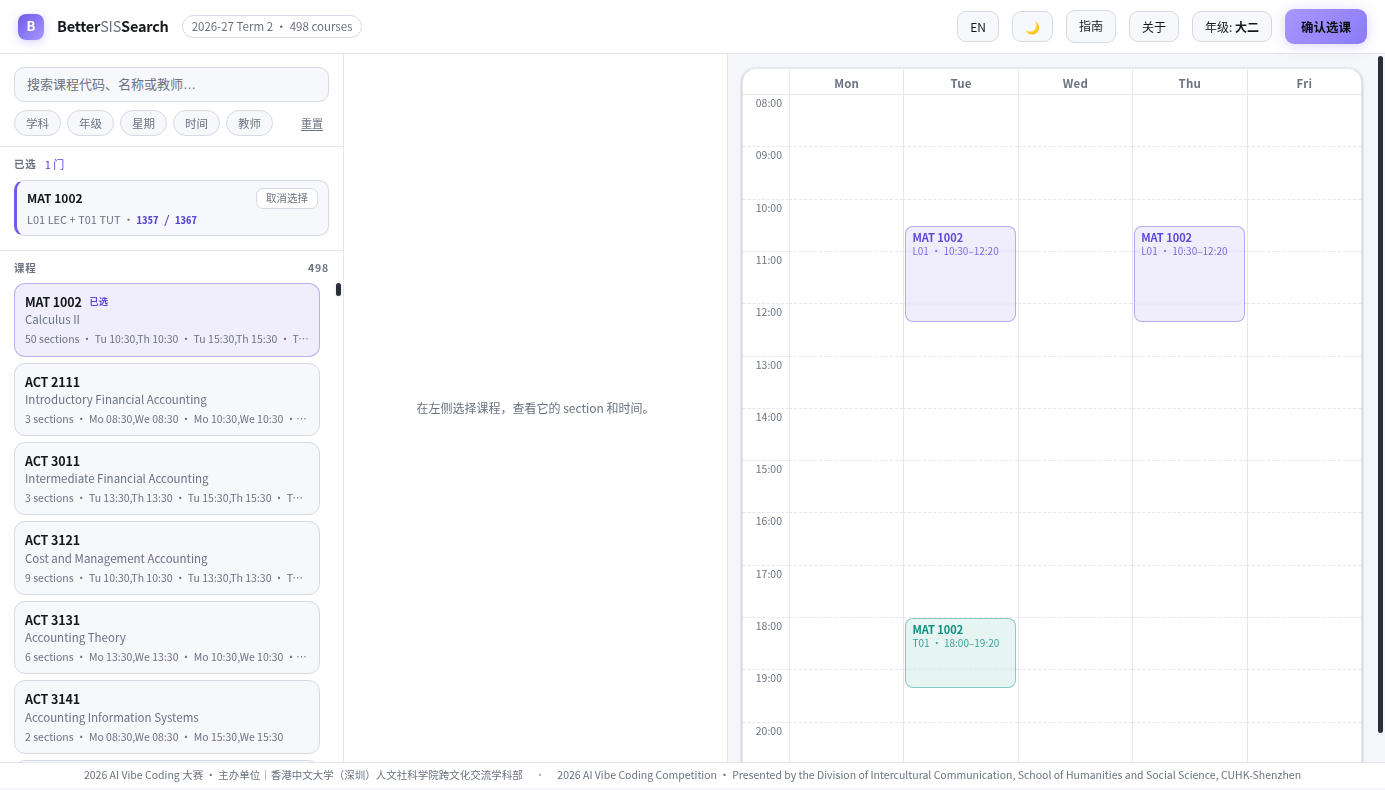
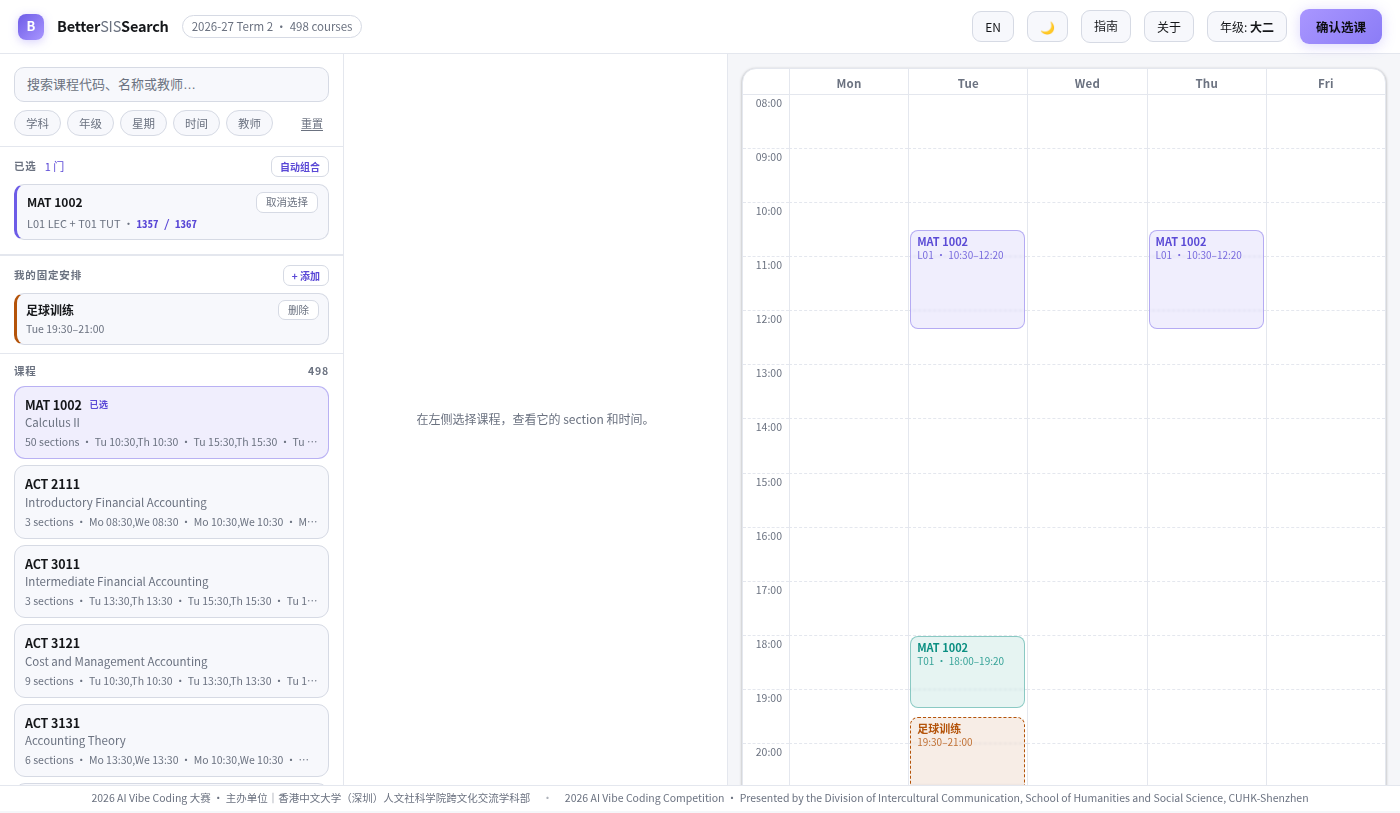
Update site from working copy

diff --git a/index.html b/index.html
@@ -140,6 +140,22 @@ main{padding:14px;overflow:auto;background:var(--bg)}
 .pcard .meta b{color:var(--accent-2);font-family:ui-monospace,SFMono-Regular,Menlo,monospace}
 .pcard.empty{color:var(--muted);border-style:dashed;border-left-color:var(--line-2);text-align:center;font-size:11.5px;padding:13px;cursor:default;background:transparent}
 
+/* ---------- fixed blocks ---------- */
+.selectedHead .mini{margin-left:auto;border:1px solid var(--line-2);background:var(--surface);color:var(--accent-2);
+  border-radius:7px;padding:2px 8px;font-size:10px;font-weight:700;cursor:pointer}
+.selectedHead .mini:hover{border-color:var(--accent-line)}
+.selectedHead .mini:disabled{color:var(--muted);cursor:default;opacity:.55}
+#blocksList{overflow:auto;max-height:20vh;padding:2px 14px 8px;border-bottom:1px solid var(--line);
+  display:flex;flex-direction:column;gap:5px}
+.bcard{border:1px solid var(--line-2);border-left:3px solid var(--caramel);border-radius:10px;
+  padding:6px 9px;background:var(--surface-2)}
+.bcard .r1{display:flex;align-items:center;gap:6px}
+.bcard .code{font-weight:700;font-size:12px;flex:1;color:var(--ink);overflow:hidden;text-overflow:ellipsis;white-space:nowrap}
+.bcard .remove{border:1px solid var(--line-2);background:var(--surface);color:var(--muted);border-radius:7px;
+  padding:2px 9px;font-size:10.5px;cursor:pointer;line-height:1.4}
+.bcard .remove:hover{border-color:var(--danger);color:var(--danger)}
+.bcard .meta{font-size:10.5px;color:var(--muted);margin-top:1px;white-space:nowrap;overflow:hidden;text-overflow:ellipsis}
+.block.type-FIX{border:1.5px dashed var(--caramel);background:rgba(180,83,9,.1);color:var(--caramel);z-index:5}
 /* ---------- course list ---------- */
 .listHead{display:flex;justify-content:space-between;padding:9px 14px 5px;font-size:10.5px;font-weight:700;
   text-transform:uppercase;letter-spacing:.08em;color:var(--muted)}
@@ -209,6 +225,18 @@ main{padding:14px;overflow:auto;background:var(--bg)}
   line-height:1.15;padding:0 3px;border-radius:5px;background:rgba(240,116,116,.22);color:var(--danger)}
 
 /* ---------- modals ---------- */
+.formrow{display:flex;align-items:center;gap:10px;margin:0 0 10px}
+.formrow label{width:72px;font-size:11.5px;color:var(--muted);flex:none}
+.formrow input,.formrow select{flex:1;padding:7px 9px;border:1px solid var(--line-2);border-radius:8px;
+  background:var(--surface-2);color:var(--ink);font-size:12.5px;font-family:inherit}
+.checkrow{display:flex;align-items:center;gap:8px;font-size:12.5px;color:var(--ink);margin:2px 0 12px;cursor:pointer}
+.checkrow input{accent-color:var(--accent);width:14px;height:14px}
+#toast{position:fixed;left:50%;bottom:44px;transform:translateX(-50%);background:var(--ink);color:var(--bg);
+  padding:9px 14px;border-radius:10px;font-size:12px;display:none;gap:12px;align-items:center;z-index:80;
+  box-shadow:0 6px 20px rgba(0,0,0,.25);max-width:92vw}
+#toast.show{display:flex}
+#toast button{border:1px solid currentColor;background:transparent;color:inherit;border-radius:7px;
+  padding:2px 8px;font-size:11px;cursor:pointer;flex:none}
 .modal{position:fixed;inset:0;background:rgba(6,7,10,.62);backdrop-filter:blur(3px);display:none;
   align-items:center;justify-content:center;z-index:50;padding:20px}
 .modal.show{display:flex}
@@ -318,8 +346,11 @@ body.guide-open header a.ghost{opacity:1;pointer-events:auto}
     <div class="panel" id="panel-time"></div>
     <div class="panel" id="panel-instructor"></div>
 
-    <div class="selectedHead"><span class="t" data-i18n="pinned">Pinned</span><span class="n" id="selCount">0</span></div>
+    <div class="selectedHead"><span class="t" data-i18n="pinned">Pinned</span><span class="n" id="selCount">0</span><button class="mini" id="autoBtn" data-i18n="autoCombine">Auto-combine</button></div>
     <div id="pinnedList"></div>
+
+    <div class="selectedHead"><span class="t" data-i18n="myBlocks">My fixed blocks</span><button class="mini" id="addBlockBtn" data-i18n="addBlock">+ Add</button></div>
+    <div id="blocksList"></div>
 
     <div class="listHead"><span data-i18n="courses">Courses</span><span id="listCount"></span></div>
     <div id="results"></div>
@@ -404,6 +435,35 @@ body.guide-open header a.ghost{opacity:1;pointer-events:auto}
   </div>
 </div>
 
+<!-- fixed block modal -->
+<div class="modal" id="blockModal">
+  <div class="sheet">
+    <h2 data-i18n="blockT">Add a fixed block</h2>
+    <p data-i18n="blockP">A standing commitment (training, work, commute). It takes up time and is counted in conflicts and auto-combine.</p>
+    <div class="formrow"><label data-i18n="blockName">Name</label><input id="bTitle" maxlength="40" placeholder="Football training" data-i18n-ph="blockPh"></div>
+    <div class="formrow"><label data-i18n="day">Day</label><select id="bDay">
+      <option value="Mo">Mon</option><option value="Tu" selected>Tue</option><option value="We">Wed</option><option value="Th">Thu</option><option value="Fr">Fri</option>
+    </select></div>
+    <div class="formrow"><label data-i18n="from">From</label><input type="time" id="bStart" value="19:00" step="300"></div>
+    <div class="formrow"><label data-i18n="to">To</label><input type="time" id="bEnd" value="21:00" step="300"></div>
+    <p class="fine" id="blockErr"></p>
+    <div class="actions"><button class="ghost" id="blockCancel" data-i18n="back">Back</button><button class="primary" id="blockSave" data-i18n="save">Save</button></div>
+  </div>
+</div>
+
+<!-- auto-combine modal -->
+<div class="modal" id="autoModal">
+  <div class="sheet">
+    <h2 data-i18n="autoT">Find a conflict-free combination</h2>
+    <p data-i18n="autoP">Tries every section of the selected courses: one section per type, and any overlap with your other courses or fixed blocks is rejected.</p>
+    <label class="checkrow"><input type="checkbox" id="avoidEarly"> <span data-i18n="avoidEarly">Avoid classes starting before 09:00</span></label>
+    <p class="fine" id="autoStatus"></p>
+    <div class="actions"><button class="ghost" id="autoCancel" data-i18n="back">Back</button><button class="primary" id="autoRun" data-i18n="autoRun">Find combination</button></div>
+  </div>
+</div>
+
+<div id="toast"></div>
+
 <script>
 const DAYS = ['Mo','Tu','We','Th','Fr'];
 const I18N={
@@ -424,7 +484,11 @@ const I18N={
   y1:'Year 1',y2:'Year 2',y3:'Year 3',y4:'Year 4',postgrad:'Postgraduate',
   undergraduate:'Undergraduate',masters:"Master's / PhD",
   firstTime:'First time here?',firstHint:'Open the Guide in the top right. It shows how to search courses, pick sections, and copy your class numbers into SIS.',
-  gotIt:'Got it',aboutT:'About BetterSISSearch',aboutP:'A read-only course planner for CUHK-SZ students. Search courses, build a timetable, check conflicts, and copy the 4-digit class numbers.',conflict:'CONFLICT',selected:'SELECTED',select:'Select',noFixed:'No fixed meeting'},
+  gotIt:'Got it',aboutT:'About BetterSISSearch',aboutP:'A read-only course planner for CUHK-SZ students. Search courses, build a timetable, check conflicts, auto-combine sections, keep fixed blocks, and copy the 4-digit class numbers.',conflict:'CONFLICT',selected:'SELECTED',select:'Select',noFixed:'No fixed meeting',
+  autoCombine:'Auto-combine',myBlocks:'My fixed blocks',addBlock:'+ Add',noBlocks:'No fixed blocks yet',
+  blockT:'Add a fixed block',blockP:'A standing commitment (training, work, commute). It takes up time and is counted in conflicts and auto-combine.',blockName:'Name',blockPh:'Football training, part-time job…',save:'Save',blockRemove:'Remove',blockTimeErr:'End time must be after start time.',blockDefaultName:'Fixed block',blockLabel:'Fixed',
+  autoT:'Find a conflict-free combination',autoP:'Tries every section of the selected courses: one section per type, and any overlap with your other courses or fixed blocks is rejected.',avoidEarly:'Avoid classes starting before 09:00',autoRun:'Find combination',
+  autoNone:'No conflict-free combination found. Try removing a fixed block or turning off the morning rule.',autoNoOption:'{course} has no section that fits the current rules.',autoApplied:'Combination applied · {n} sections',autoUndo:'Undo'},
  zh:{remove:'取消选择',unitCourse:'门',pinnedTag:'已选',year:'年级',guide:'指南',about:'关于',confirm:'确认选课',theme:'切换明暗',lang:'EN',
   searchPh:'搜索课程代码、名称或教师…',
   subject:'学科',level:'年级',day:'星期',time:'时间',instructor:'教师',reset:'重置',
@@ -442,7 +506,11 @@ const I18N={
   y1:'大一',y2:'大二',y3:'大三',y4:'大四',postgrad:'研究生',
   undergraduate:'本科',masters:'硕士 / 博士',
   firstTime:'第一次来？',firstHint:'先看右上角的指南。里面讲了怎么搜课、选 section、把 class number 复制到 SIS。',
-  gotIt:'我知道了',aboutT:'关于 BetterSISSearch',aboutP:'面向 CUHK-SZ 学生的只读选课规划工具。搜课、排表、查冲突，复制 4 位 class number。',conflict:'冲突',selected:'已选',select:'选',noFixed:'无固定时间'}
+  gotIt:'我知道了',aboutT:'关于 BetterSISSearch',aboutP:'面向 CUHK-SZ 学生的只读选课规划工具。搜课、排表、查冲突、自动组合 section、固定个人安排，复制 4 位 class number。',conflict:'冲突',selected:'已选',select:'选',noFixed:'无固定时间',
+  autoCombine:'自动组合',myBlocks:'我的固定安排',addBlock:'+ 添加',noBlocks:'还没有固定安排',
+  blockT:'添加固定安排',blockP:'固定占用一段时间（训练、兼职、通勤等），参与冲突判断和自动组合。',blockName:'名称',blockPh:'周二晚足球训练、兼职…',save:'保存',blockRemove:'删除',blockTimeErr:'结束时间要晚于开始时间。',blockDefaultName:'固定安排',blockLabel:'固定',
+  autoT:'自动找不冲突的组合',autoP:'遍历已选课程的每一个 section，每种类型选一个；与其它课程或固定安排重叠的组合会被排除。',avoidEarly:'不要早八（09:00 前开始）',autoRun:'开始查找',
+  autoNone:'没有找到不冲突的组合。试试删除一个固定安排，或关掉「不要早八」。',autoNoOption:'{course} 没有符合当前规则的 section。',autoApplied:'已应用组合 · {n} 个 section',autoUndo:'撤销'}
 };
 let lang=localStorage.getItem('bss.lang')||'en';
 function t(k){ const d=I18N[lang]||I18N.en; return d[k]||I18N.en[k]||k; }
@@ -459,7 +527,7 @@ function applyI18n(){
 
 const DAY_LABEL = {Mo:'Mon',Tu:'Tue',We:'Wed',Th:'Thu',Fr:'Fri',Sa:'Sat',Su:'Sun'};
 const START_H = 8, END_H = 21;
-const LS = {year:'bss.year', sel:'bss.selected.v3'};
+const LS = {year:'bss.year', sel:'bss.selected.v3', blocks:'bss.blocks.v1'};
 
 let DATA = null;
 let year = localStorage.getItem(LS.year) || '';
@@ -469,6 +537,8 @@ let filters = {subject:new Set(), level:new Set(), day:new Set(), time:new Set()
 let timeRange = {start:'', end:''};
 let openPanel = null;
 let confirmed = false;
+let blocks=[];                 // personal fixed commitments: {id,title,day,start,end}
+try{ blocks=(JSON.parse(localStorage.getItem(LS.blocks))||[]).filter(b=>b&&b.day&&b.start&&b.end); }catch{ blocks=[]; }
 
 const $ = s => document.querySelector(s);
 const toMin = t => { const [h,m]=t.split(':').map(Number); return h*60+m; };
@@ -483,6 +553,81 @@ function isSelected(code){ return selected.some(p=>p.code===code); }
 function selOf(code){ return selected.find(p=>p.code===code); }
 function levelOf(c){ const m=c.catalog.match(/^\d/); return m ? c.catalog[0]+'000' : 'Other'; }
 function allSelectedMeetings(){ return selected.flatMap(meetingsOf); }
+/* ---------------- fixed blocks + auto-combine ---------------- */
+const EARLY_MIN = 9*60;
+function blockMeetings(){ return blocks.map(b=>({day:b.day,start:b.start,end:b.end,raw:`${DAY_LABEL[b.day]||b.day} ${b.start}–${b.end}`})); }
+function saveBlocks(){ localStorage.setItem(LS.blocks, JSON.stringify(blocks)); }
+const esc = s => String(s).replace(/[&<>"']/g, c => ({'&':'&amp;','<':'&lt;','>':'&gt;','"':'&quot;',"'":'&#39;'}[c]));
+
+function courseAssignments(c, avoidEarly){
+  // one section per type; sections with a meeting starting before 09:00 are dropped when asked
+  const types=[...new Set(c.sections.map(s=>s.type))];
+  let combos=[{}];
+  for(const ty of types){
+    let secs=c.sections.filter(s=>s.type===ty);
+    if(avoidEarly) secs=secs.filter(s=>s.meetings.every(m=>toMin(m.start)>=EARLY_MIN));
+    if(!secs.length) return [];
+    const next=[];
+    for(const base of combos) for(const s of secs) next.push(Object.assign({}, base, {[ty]:s.class_number}));
+    combos=next;
+  }
+  return combos.map(byType=>({
+    byType,
+    meetings:Object.values(byType).flatMap(cn=>section(c,cn).meetings)
+  }));
+}
+
+function solveCombination(avoidEarly){
+  const list=selected.map(p=>course(p.code)).filter(Boolean);
+  if(!list.length) return {error:'empty'};
+  const opts=list.map(c=>({c, list:courseAssignments(c, avoidEarly)}));
+  const bad=opts.find(o=>!o.list.length);
+  if(bad) return {error:'noOption', course:bad.c.code};
+  opts.sort((a,b)=>a.list.length-b.list.length);
+  let nodes=0; const LIMIT=400000;
+  const chosen=[];
+  function dfs(i, occ){
+    if(i===opts.length) return chosen.slice();
+    for(const o of opts[i].list){
+      if(++nodes>LIMIT) return null;
+      if(o.meetings.some(m=>occ.some(x=>overlap(m,x)))) continue;
+      chosen.push({code:opts[i].c.code, byType:o.byType});
+      const r=dfs(i+1, occ.concat(o.meetings));
+      if(r) return r;
+      chosen.pop();
+    }
+    return null;
+  }
+  const result=dfs(0, blockMeetings());
+  return result ? {result, nodes} : {error:'none', nodes};
+}
+
+function applyCombination(result){
+  const prev=JSON.parse(JSON.stringify(selected));
+  for(const ch of result){
+    const p=selOf(ch.code);
+    if(p) p.byType=Object.assign({}, ch.byType);
+    else selected.push({code:ch.code, byType:Object.assign({}, ch.byType)});
+  }
+  saveSel(); renderAll();
+  const n=result.reduce((sum,r)=>sum+Object.keys(r.byType).length, 0);
+  toast(t('autoApplied').replace('{n}', String(n)), ()=>{ selected=prev; saveSel(); renderAll(); });
+}
+
+let toastTimer=null;
+function toast(msg, undoFn){
+  const box=$('#toast'); if(!box) return;
+  box.innerHTML=''; box.appendChild(document.createTextNode(msg));
+  if(undoFn){
+    const b=document.createElement('button');
+    b.textContent=t('autoUndo');
+    b.onclick=()=>{ undoFn(); box.classList.remove('show'); };
+    box.appendChild(b);
+  }
+  box.classList.add('show');
+  clearTimeout(toastTimer); toastTimer=setTimeout(()=>box.classList.remove('show'), 6000);
+}
+
 
 /* ---------------- filters ---------------- */
 function courseMatchesFilters(c){
@@ -623,6 +768,23 @@ function renderPinned(){
   }
 }
 
+/* ---------------- left: fixed blocks ---------------- */
+function renderBlocks(){
+  const box=$('#blocksList'); if(!box) return;
+  if(!blocks.length){ box.innerHTML='<div class="empty" style="padding:10px 6px;font-size:11px">'+t('noBlocks')+'</div>'; return; }
+  box.innerHTML='';
+  for(const b of blocks){
+    const d=document.createElement('div'); d.className='bcard';
+    d.innerHTML=`<div class="r1"><span class="code">${esc(b.title)}</span><button class="remove">${t('blockRemove')}</button></div>
+      <div class="meta">${DAY_LABEL[b.day]||b.day} ${b.start}–${b.end}</div>`;
+    d.querySelector('.remove').onclick=e=>{
+      e.stopPropagation();
+      blocks=blocks.filter(x=>x.id!==b.id); saveBlocks(); renderAll();
+    };
+    box.appendChild(d);
+  }
+}
+
 /* ---------------- left: list ---------------- */
 function renderList(){
   const q=$('#q').value.trim();
@@ -652,7 +814,7 @@ function renderDetail(){
   const c=currentCode?course(currentCode):null;
   if(!c){ box.innerHTML='<div class="detailEmpty">'+t('pickCourse')+'</div>'; return; }
   const byType=pickedOf(c.code);
-  const otherM=selected.filter(p=>p.code!==c.code).flatMap(meetingsOf);
+  const otherM=selected.filter(p=>p.code!==c.code).flatMap(meetingsOf).concat(blockMeetings());
   const types=[...new Set(c.sections.map(s=>s.type))];
   const groups=types.map(ty=>{
     const rows=c.sections.filter(s=>s.type===ty).map(s=>{
@@ -697,6 +859,10 @@ function renderGrid(){
     for(const ps of pickedSections(p.code))
       for(const m of ps.section.meetings) items.push({p,c,s:ps.section,m});
   }
+  for(const b of blocks)
+    items.push({isBlock:true, p:null, c:{code:t('blockLabel'), title:b.title},
+      s:{section:'', type:'FIX', class_number:''},
+      m:{day:b.day, start:b.start, end:b.end, raw:`${DAY_LABEL[b.day]||b.day} ${b.start}–${b.end}`}});
   function place(it,ghost){
     const di=DAYS.indexOf(it.m.day); if(di<0) return;
     const s0=toMin(it.m.start), e0=toMin(it.m.end);
@@ -714,10 +880,17 @@ function renderGrid(){
     b.style.marginLeft='2px';
     if(ghost) b.style.zIndex='1';
     if(conflict) b.dataset.cf='×'+clash;
-    if(!covered) b.innerHTML=`<b>${it.c.code}</b><div class="meta">${it.s.section} · ${it.m.start}–${it.m.end}</div>`;
-    b.title=(ghost?'click to pin: ':'')+`${it.c.code} ${it.c.title}\n${it.s.section} ${it.s.type} (${it.s.class_number})\n${it.m.raw}`+(conflict?`\n\n${clash} ${t('unitCourse')} ${t('conflict')}`:'');
+    if(!covered){
+      b.innerHTML = it.isBlock
+        ? `<b>${esc(it.c.title)}</b><div class="meta">${it.m.start}–${it.m.end}</div>`
+        : `<b>${it.c.code}</b><div class="meta">${it.s.section} · ${it.m.start}–${it.m.end}</div>`;
+    }
+    b.title = it.isBlock
+      ? `${it.c.title}\n${it.m.raw}`
+      : (ghost?'click to pin: ':'')+`${it.c.code} ${it.c.title}\n${it.s.section} ${it.s.type} (${it.s.class_number})\n${it.m.raw}`+(conflict?`\n\n${clash} ${t('unitCourse')} ${t('conflict')}`:'');
     b.onclick=e=>{
       e.stopPropagation();
+      if(it.isBlock) return;
       if(ghost){ pickSection(it.c.code, it.s.class_number); return; }
       const group=items.filter(o=>overlap(it.m,o.m));
       if(group.length<=1){ currentCode=it.c.code; renderAll(); return; }
@@ -748,7 +921,7 @@ document.querySelector('aside.mid').addEventListener('click', e=>{
   if(e.target.closest('.secrow')) return;
   if(currentCode){ currentCode=null; renderAll(); }
 });
-function renderAll(){renderPinned();renderList();renderDetail();renderGrid();$('#confirmBtn').disabled=!selected.length;}
+function renderAll(){renderPinned();renderBlocks();renderList();renderDetail();renderGrid();$('#confirmBtn').disabled=!selected.length;$('#autoBtn').disabled=!selected.length;}
 
 /* ---------------- confirm ---------------- */
 let codeRows=[];
@@ -796,6 +969,36 @@ $('#copyCodes').onclick=async()=>{
   const text=codeRows.map(r=>r.cn).join('\n');
   await copyText(text);
   const a=$('#copyCodes'); a.textContent=t('copied'); setTimeout(()=>a.textContent=t('copyAllNote'),1400);
+};
+
+/* ---------------- fixed blocks ---------------- */
+$('#addBlockBtn').onclick=()=>{
+  $('#bTitle').value=''; $('#bDay').value='Tu'; $('#bStart').value='19:00'; $('#bEnd').value='21:00';
+  $('#blockErr').textContent=''; $('#blockModal').classList.add('show');
+};
+$('#blockCancel').onclick=()=>$('#blockModal').classList.remove('show');
+$('#blockSave').onclick=()=>{
+  const title=$('#bTitle').value.trim()||t('blockDefaultName');
+  const day=$('#bDay').value, start=$('#bStart').value, end=$('#bEnd').value;
+  if(!start||!end||toMin(end)<=toMin(start)){ $('#blockErr').textContent=t('blockTimeErr'); return; }
+  blocks.push({id:'b'+Date.now()+Math.floor(Math.random()*1000), title, day, start, end});
+  saveBlocks(); $('#blockModal').classList.remove('show'); renderAll();
+};
+
+/* ---------------- auto-combine ---------------- */
+$('#autoBtn').onclick=()=>{
+  $('#avoidEarly').checked=false; $('#autoStatus').textContent='';
+  $('#autoModal').classList.add('show');
+};
+$('#autoCancel').onclick=()=>$('#autoModal').classList.remove('show');
+$('#autoRun').onclick=()=>{
+  const avoid=$('#avoidEarly').checked;
+  const r=solveCombination(avoid);
+  if(r.error==='none'){ $('#autoStatus').textContent=t('autoNone'); return; }
+  if(r.error==='noOption'){ $('#autoStatus').textContent=t('autoNoOption').replace('{course}', r.course); return; }
+  if(r.error==='empty'){ $('#autoModal').classList.remove('show'); return; }
+  $('#autoModal').classList.remove('show');
+  applyCombination(r.result);
 };
 
 /* ---------------- year ---------------- */

diff --git a/tutorial.html b/tutorial.html
@@ -90,7 +90,10 @@ const I18N={
   s3p2:'In SIS, open Enrollment, then Enrollment Shopping Cart. Type each number in Enter Class Nbr.',
   cap3:'One number per section.',
   capSis:'SIS enrollment cart.',
-  q0:'What are the course code and the class number?',a0:'The <b>course code</b> is three letters plus four digits, like <code>MAT 3004</code>. It is the catalog identifier. The <b>class number</b> is four digits, like <code>1692</code>. It is what you actually enroll with in SIS. You plan with the course code and end up with class numbers. In SIS, a class number locates the course directly, without searching again.',q1:'Can it enroll for me?',a1:'No. The tool is read-only. It never adds to a cart, submits, or changes anything. It gives you the 4-digit class numbers. You paste them into SIS yourself.',q2:'Is the data trustworthy?',a2:'It is a read-only snapshot of SIS Class Search for 2026-27 Term 2: 498 courses and 1574 sections. Seats and courses change during enrollment, so SIS is authoritative. The scrape uses a campus account session and only reads. AIE1902 / AIE1904 times and instructors come from the SAI college course pages (2026-11-27/28).',q3:'Why no capacity info?',a3:'Capacity changes every second during enrollment. This site is a static deployment, so stored capacity would mislead. No capacity, only time, conflicts, and class numbers.',q4:'Why are some section relationships missing?',a4:'Class Search returns sections without binding relationships. You get numbers, times, rooms, and instructors. You cannot tell which TUT belongs to which LEC. Relationship data is being added. Workaround: locate the course in SIS with its class number to see what it belongs to.',q5:"Why can't I find some courses?",a5:'62 subjects have no courses this term. 24 of them had courses in Term 1, and 38 had none in either term, mostly exchange programs and language codes.',q6:'Why does my combination fail in SIS?',a6:'Prerequisites, year restrictions, time conflicts, full sections, or consent requirements. The tool does not check these. SIS is authoritative.',q7:'Is my selection uploaded?',a7:"No. It stays in your browser's localStorage. No account, no server storage.",q8:'Do conflicts block me?',a8:'No. Red is a warning. Conflicts are allowed. Some people hold a spot and adjust later.',q9:'Which terms are supported?',a9:'Only 2026-27 Term 2.',q10:'Why must the time range fully contain the class?',a10:'You are asking which classes fit in a window when you are free, so the whole class time must fall inside it.',end:'Course data is a static snapshot. Seats and changes are decided by SIS. Your selections stay in this browser.',fbLabel:'Feedback',fbText:'Wrong time, a missing course, or something broken? Email me.'},
+  step4:'Auto-combine and fixed blocks',
+  s4p1:'No clash-free way to fit everything? Click Auto-combine. It tries the sections of the selected courses and returns a working set; turn on “no morning” to exclude classes before 09:00. The result lands on the timetable and can be undone.',
+  s4p2:'Add standing commitments (football training, a part-time job) under My fixed blocks. They take up time on the timetable and are counted in conflicts and Auto-combine.',
+  q0:'What are the course code and the class number?',a0:'The <b>course code</b> is three letters plus four digits, like <code>MAT 3004</code>. It is the catalog identifier. The <b>class number</b> is four digits, like <code>1692</code>. It is what you actually enroll with in SIS. You plan with the course code and end up with class numbers. In SIS, a class number locates the course directly, without searching again.',q1:'Can it enroll for me?',a1:'No. The tool is read-only. It never adds to a cart, submits, or changes anything. It gives you the 4-digit class numbers. You paste them into SIS yourself.',q2:'Is the data trustworthy?',a2:'It is a read-only snapshot of SIS Class Search for 2026-27 Term 2: 498 courses and 1574 sections. Seats and courses change during enrollment, so SIS is authoritative. The scrape uses a campus account session and only reads. AIE1902 / AIE1904 times and instructors come from the SAI college course pages (2026-11-27/28).',q3:'Why no capacity info?',a3:'Capacity changes every second during enrollment. This site is a static deployment, so stored capacity would mislead. No capacity, only time, conflicts, and class numbers.',q4:'Why are some section relationships missing?',a4:'Class Search returns sections without binding relationships. You get numbers, times, rooms, and instructors. You cannot tell which TUT belongs to which LEC. Relationship data is being added. Workaround: locate the course in SIS with its class number to see what it belongs to.',q5:"Why can't I find some courses?",a5:'62 subjects have no courses this term. 24 of them had courses in Term 1, and 38 had none in either term, mostly exchange programs and language codes.',q6:'Why does my combination fail in SIS?',a6:'Prerequisites, year restrictions, time conflicts, full sections, or consent requirements. The tool does not check these. SIS is authoritative.',q7:'Is my selection uploaded?',a7:"No. It stays in your browser's localStorage. No account, no server storage.",q8:'Do conflicts block me?',a8:'No. Red is a warning. Conflicts are allowed. Some people hold a spot and adjust later.',q9:'Which terms are supported?',a9:'Only 2026-27 Term 2.',q10:'Why must the time range fully contain the class?',a10:'You are asking which classes fit in a window when you are free, so the whole class time must fall inside it.',q11:'Does it know about my football training?',a11:'Add it under My fixed blocks. It is treated like a class in conflict checks and Auto-combine, and it never produces a class number.',end:'Course data is a static snapshot. Seats and changes are decided by SIS. Your selections stay in this browser.',fbLabel:'Feedback',fbText:'Wrong time, a missing course, or something broken? Email me.'},
  zh:{title:'使用指南 · BetterSISSearch',openApp:'打开应用',
   heroTitle:'选课前先把学期排好。',
   faqSub:'常见问题',heroP:'BetterSISSearch 是一个快速、可视化的 SIS 选课模拟器。搜索课程、搭好课表、检查时间冲突，然后把 4 位 class number 复制到 SIS。不用登录，不写入 SIS。',
@@ -108,7 +111,10 @@ const I18N={
   s3p2:'在 SIS 里打开 Enrollment，再进 Enrollment Shopping Cart，把数字填进 Enter Class Nbr。',
   cap3:'每个 section 一个数字。',
   capSis:'SIS 选课购物车。',
-  q0:'什么是课程编码和 class number？',a0:'<b>课程编码</b>是三字母学科加四位数字，比如 <code>MAT 3004</code>，是课程目录里的编号。<b>class number</b> 是四位数字，比如 <code>1692</code>，是你在 SIS 里实际操作的单位。排课时用课程编码找课，最后拿到的是 class number。在 SIS 里用 class number 可以直接定位课程，不用再 search。',q1:'能帮我选课吗？能替我完成 SIS 操作吗？',a1:'不能。这个工具是只读的，不加购物车、不提交、不改任何东西。它只负责把 4 位 class number 给你，复制到 SIS 里由你自己加。',q2:'数据可信吗？',a2:'数据来自 SIS Class Search 的只读抓取，是 2026-27 Term 2 的快照：498 门课、1574 个 section。选课季名额和课程都会变，最终以 SIS 为准。抓取用的是校园账号登录态，只读查询，不写任何东西。AIE1902 / AIE1904 两门学院探索课的时间与教师取自学院官网（2026-11-27/28）。',q3:'为什么不做容量信息？',a3:'容量是动态的，选课季每秒都在变。这是一个静态部署的站点，存下来的容量只会误导人。所以不做容量，只做时间、冲突、class number。',q4:'为什么有些 section 之间的关联关系查不到？',a4:'Class Search 返回的数据里，section 之间没有绑定关系，只有编号、时间、教室、老师。比如一门课的 LEC 和 TUT 该怎么配，数据里看不出来。课程之间的关联数据正在尝试拉取。临时办法：用 class number 在 SIS 里定位，可以看到它所属的课程和 section。',q5:'为什么有些课搜不到？',a5:'62 个科目本学期没开课。其中 24 个在 Term 1 有课，38 个两个学期都没有，多是交换项目和语言代码。',q6:'为什么我选的组合在 SIS 里加不进去？',a6:'可能有先修要求、年级限制、时间冲突、名额已满、需要许可。工具不校验这些，SIS 才是权威。',q7:'我的选课数据会上传吗？',a7:'不会。存在你自己浏览器的 localStorage 里，没有账号、没有服务器存储。',q8:'冲突会被拦下来吗？',a8:'不会。红色只是提示。允许冲突，有人会先占位再调整。',q9:'支持哪些学期？',a9:'目前只有 2026-27 Term 2。',q10:'为什么时间筛选要「完整包含」？',a10:'你实际想问的是「我 9 点到 12 点有空，哪些课能上」，所以课程时段要整段落在你选的窗口里。',end:'课程数据是静态快照，名额和变动以 SIS 为准。你的选课只存在这个浏览器里。',fbLabel:'反馈',fbText:'时间不对、课程缺失、或者哪里坏了，发邮件给我。'}
+  step4:'自动组合与固定安排',
+  s4p1:'怎么排都冲突？点「自动组合」：它会遍历已选课程的 section，给出一组可行安排；勾上「不要早八」会排除 09:00 前开始的课。结果直接落到课表，还可以撤销。',
+  s4p2:'固定安排（足球训练、兼职）在「我的固定安排」里添加，会占用课表时间，并参与冲突判断和自动组合。',
+  q0:'什么是课程编码和 class number？',a0:'<b>课程编码</b>是三字母学科加四位数字，比如 <code>MAT 3004</code>，是课程目录里的编号。<b>class number</b> 是四位数字，比如 <code>1692</code>，是你在 SIS 里实际操作的单位。排课时用课程编码找课，最后拿到的是 class number。在 SIS 里用 class number 可以直接定位课程，不用再 search。',q1:'能帮我选课吗？能替我完成 SIS 操作吗？',a1:'不能。这个工具是只读的，不加购物车、不提交、不改任何东西。它只负责把 4 位 class number 给你，复制到 SIS 里由你自己加。',q2:'数据可信吗？',a2:'数据来自 SIS Class Search 的只读抓取，是 2026-27 Term 2 的快照：498 门课、1574 个 section。选课季名额和课程都会变，最终以 SIS 为准。抓取用的是校园账号登录态，只读查询，不写任何东西。AIE1902 / AIE1904 两门学院探索课的时间与教师取自学院官网（2026-11-27/28）。',q3:'为什么不做容量信息？',a3:'容量是动态的，选课季每秒都在变。这是一个静态部署的站点，存下来的容量只会误导人。所以不做容量，只做时间、冲突、class number。',q4:'为什么有些 section 之间的关联关系查不到？',a4:'Class Search 返回的数据里，section 之间没有绑定关系，只有编号、时间、教室、老师。比如一门课的 LEC 和 TUT 该怎么配，数据里看不出来。课程之间的关联数据正在尝试拉取。临时办法：用 class number 在 SIS 里定位，可以看到它所属的课程和 section。',q5:'为什么有些课搜不到？',a5:'62 个科目本学期没开课。其中 24 个在 Term 1 有课，38 个两个学期都没有，多是交换项目和语言代码。',q6:'为什么我选的组合在 SIS 里加不进去？',a6:'可能有先修要求、年级限制、时间冲突、名额已满、需要许可。工具不校验这些，SIS 才是权威。',q7:'我的选课数据会上传吗？',a7:'不会。存在你自己浏览器的 localStorage 里，没有账号、没有服务器存储。',q8:'冲突会被拦下来吗？',a8:'不会。红色只是提示。允许冲突，有人会先占位再调整。',q9:'支持哪些学期？',a9:'目前只有 2026-27 Term 2。',q10:'为什么时间筛选要「完整包含」？',a10:'你实际想问的是「我 9 点到 12 点有空，哪些课能上」，所以课程时段要整段落在你选的窗口里。',q11:'它会考虑我的足球训练吗？',a11:'在「我的固定安排」里加一条即可。它和课程一样参与冲突判断与自动组合，但不会产生 class number。',end:'课程数据是静态快照，名额和变动以 SIS 为准。你的选课只存在这个浏览器里。',fbLabel:'反馈',fbText:'时间不对、课程缺失、或者哪里坏了，发邮件给我。'}
 };
 (function(){
   let lang='en';
@@ -185,6 +191,14 @@ const I18N={
     </div>
   </div>
 
+  <div class="step">
+    <div class="num">4</div>
+    <div>
+      <h2 data-i18n="step4">Auto-combine and fixed blocks</h2>
+      <p data-i18n="s4p1">No clash-free way to fit everything? Click Auto-combine. It tries the sections of the selected courses and returns a working set; turn on “no morning” to exclude classes before 09:00. The result lands on the timetable and can be undone.</p>
+      <p data-i18n="s4p2">Add standing commitments (football training, a part-time job) under My fixed blocks. They take up time on the timetable and are counted in conflicts and Auto-combine.</p>
+    </div>
+  </div>
 
   <section class="faq">
     <h2>Q&amp;A</h2>
@@ -200,6 +214,7 @@ const I18N={
   <div class="qa"><div class="q" data-i18n-html="q8"></div><div class="a" data-i18n-html="a8"></div></div>
   <div class="qa"><div class="q" data-i18n-html="q9"></div><div class="a" data-i18n-html="a9"></div></div>
   <div class="qa"><div class="q" data-i18n-html="q10"></div><div class="a" data-i18n-html="a10"></div></div>
+  <div class="qa"><div class="q" data-i18n-html="q11"></div><div class="a" data-i18n-html="a11"></div></div>
   </section>
   <div class="fb">
     <span class="k" data-i18n="fbLabel">Feedback</span>

diff --git a/AI_COLLABORATION_LOG.md b/AI_COLLABORATION_LOG.md
@@ -211,3 +211,15 @@
 3. **11-28 补齐 AIE1902**：参赛前复查发现同类的 AIE1902 也仍是 `Staff`，而 SAI 同样公布了课程页（11 个 section，`category=217`）；按同一流程补齐。`apply_sai.py` 改为自动遍历 `data/sai_aie*_spring2027.json`，幂等、可重放（`--dry-run` 只看变更）。
 4. **文档同步**：README 数据节与已知局限、`data/SCRAPE_REPORT.md` §9（两张 section 明细表）、页面「关于」弹窗、教程 Q&A 都注明这两门课的时间/教师来源与时间口径（SAI 按 2 小时整块公布到 `:30`，SIS 课表格位渲染到 `:20`）。
 5. **参赛前检查（11-28）**：公网站点、教程、GitHub 仓库均返回 200；发布包不含 `logs/`、`.salt`、抓取脚本与任何凭据；署名在 README 文首与「关于」弹窗；AI 协作日志 8 节；README 的 498 门课 / 1574 个 section 与线上数据一致；全程只读 SIS，不选课、不写任何教务数据。
+
+---
+
+## 九、11-28 晚：自动组合与个人固定安排
+
+1. **需求**：U1 的场景（18 学分、无早八、周二晚足球训练）暴露出两个动作：① 逐门比对 section 太慢，需要「自动找不冲突的组合」；② 自己的固定安排要先占住时间，才能参与冲突判断。讨论中用户明确：固定安排复用选课的数据结构即可（创建一个占时间的「课」），不再单独做「空闲时段」——用处不大。
+2. **实现（AI）**：
+   - **固定安排**：`localStorage` 新增 `blocks`；可添加/删除（名称、星期、起止）；课表里是棕色虚线块，参与详情页冲突标记和课表冲突计数；不产生 class number。
+   - **自动组合**：按课程类型枚举 section，回溯搜索 + 冲突剪枝（节点上限 40 万）；勾选「不要早八」时排除 09:00 前开始的 section；结果直接落到课表，提示条带「撤销」。
+   - **文档**：README 中英双语「怎么用」新增第 5、6 步；U1 反馈行从「待做」改为「已做」；计划清单标注完成项，并写明「空闲时段」暂不做。
+3. **验证**：3 门课 + 2 个固定安排，自动组合结果与课程、固定安排均 0 重叠；早八模式下所有开始时间 ≥ 09:00；全周占满时正确提示「找不到组合」；撤销恢复原选择；中英文与 390px 移动端布局检查通过。
+4. **人机分工**：人给出判据与取舍（固定安排复用选课、空闲时段不做、早八阈值 09:00），AI 负责实现、自测与文档。
